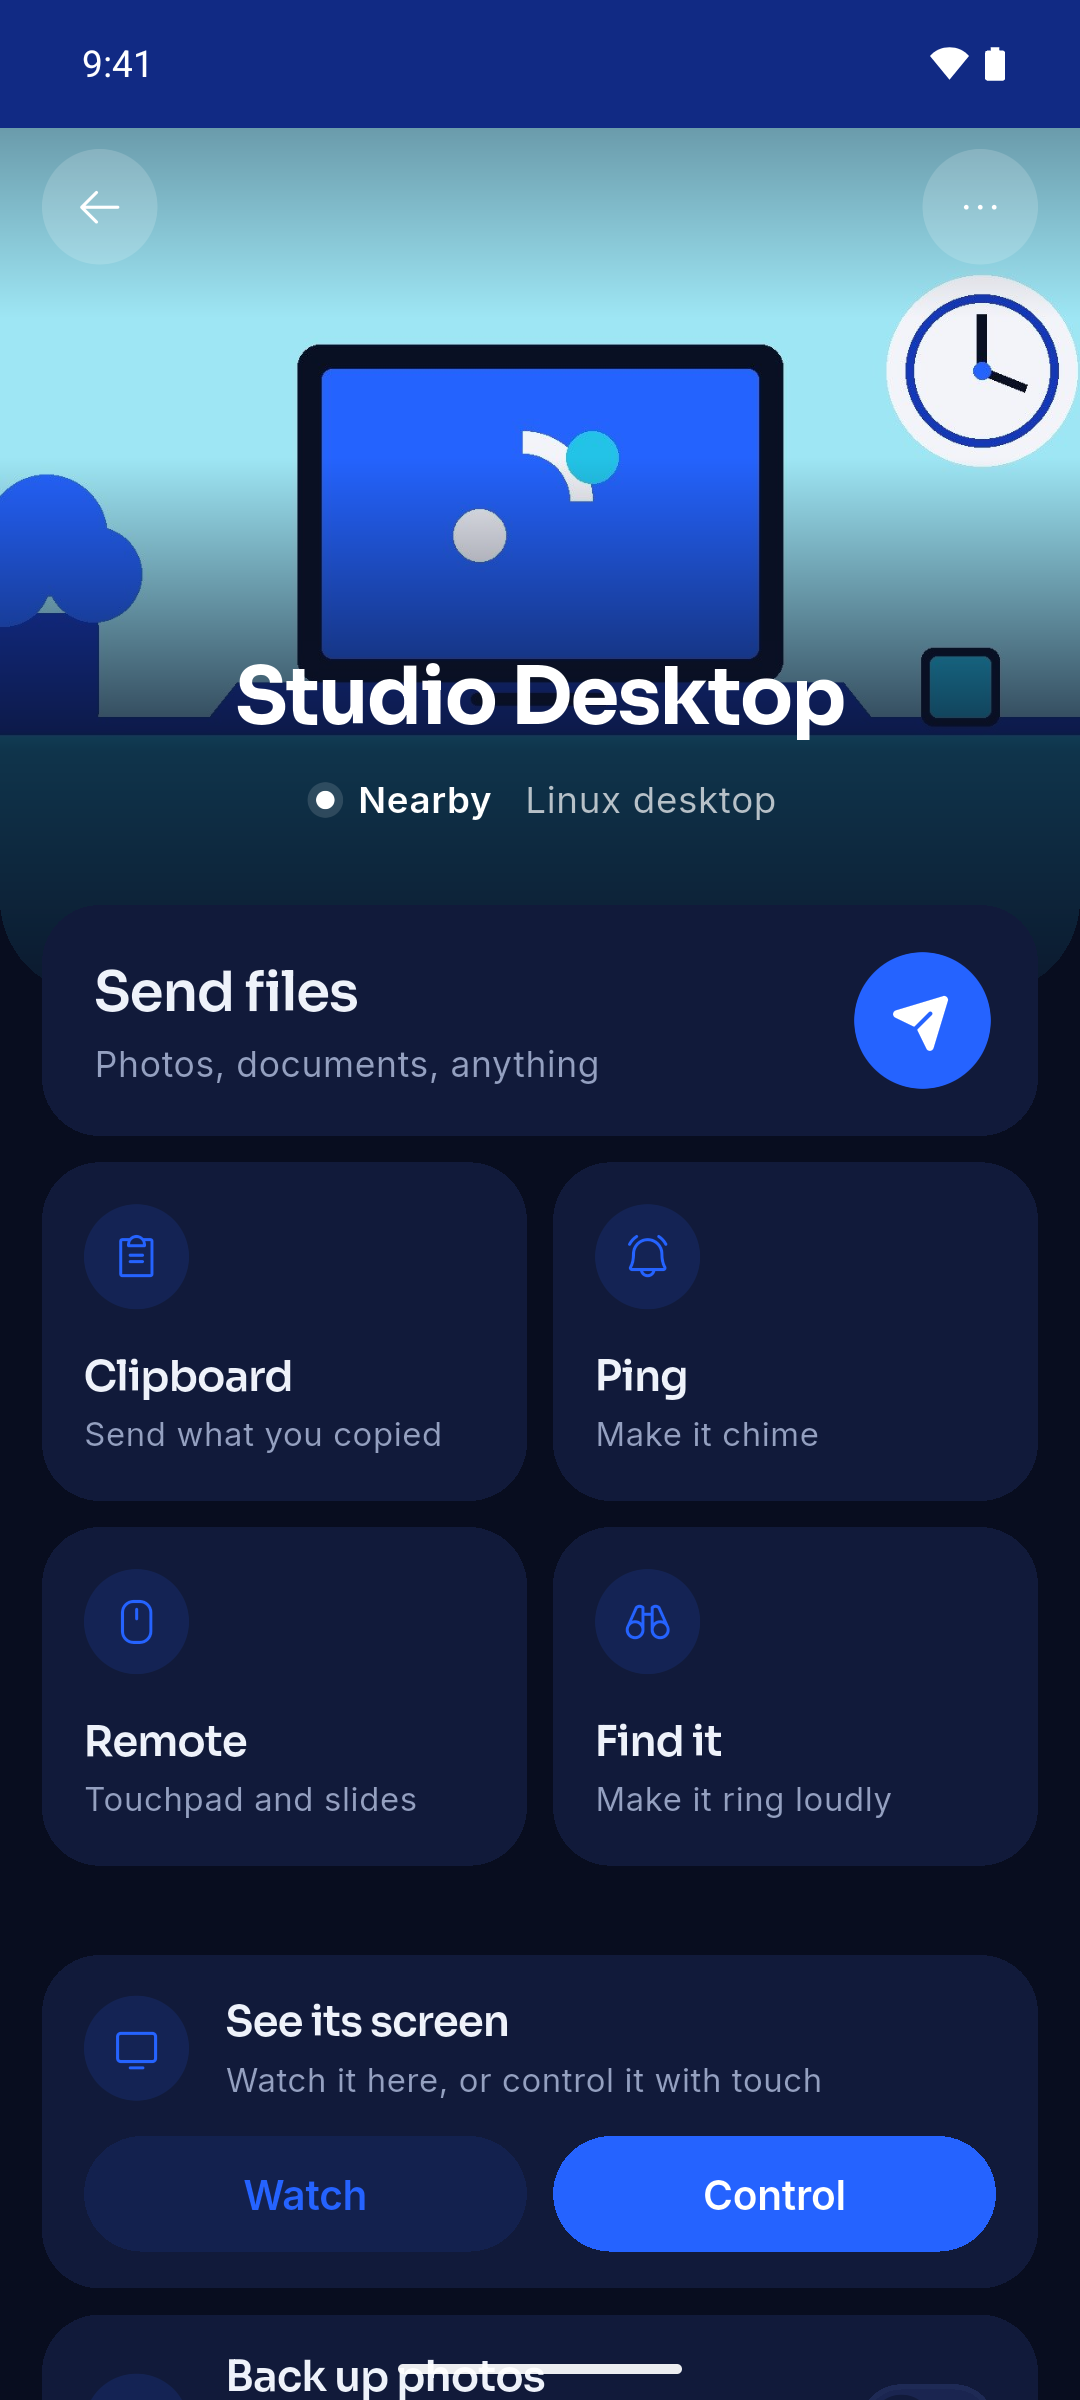
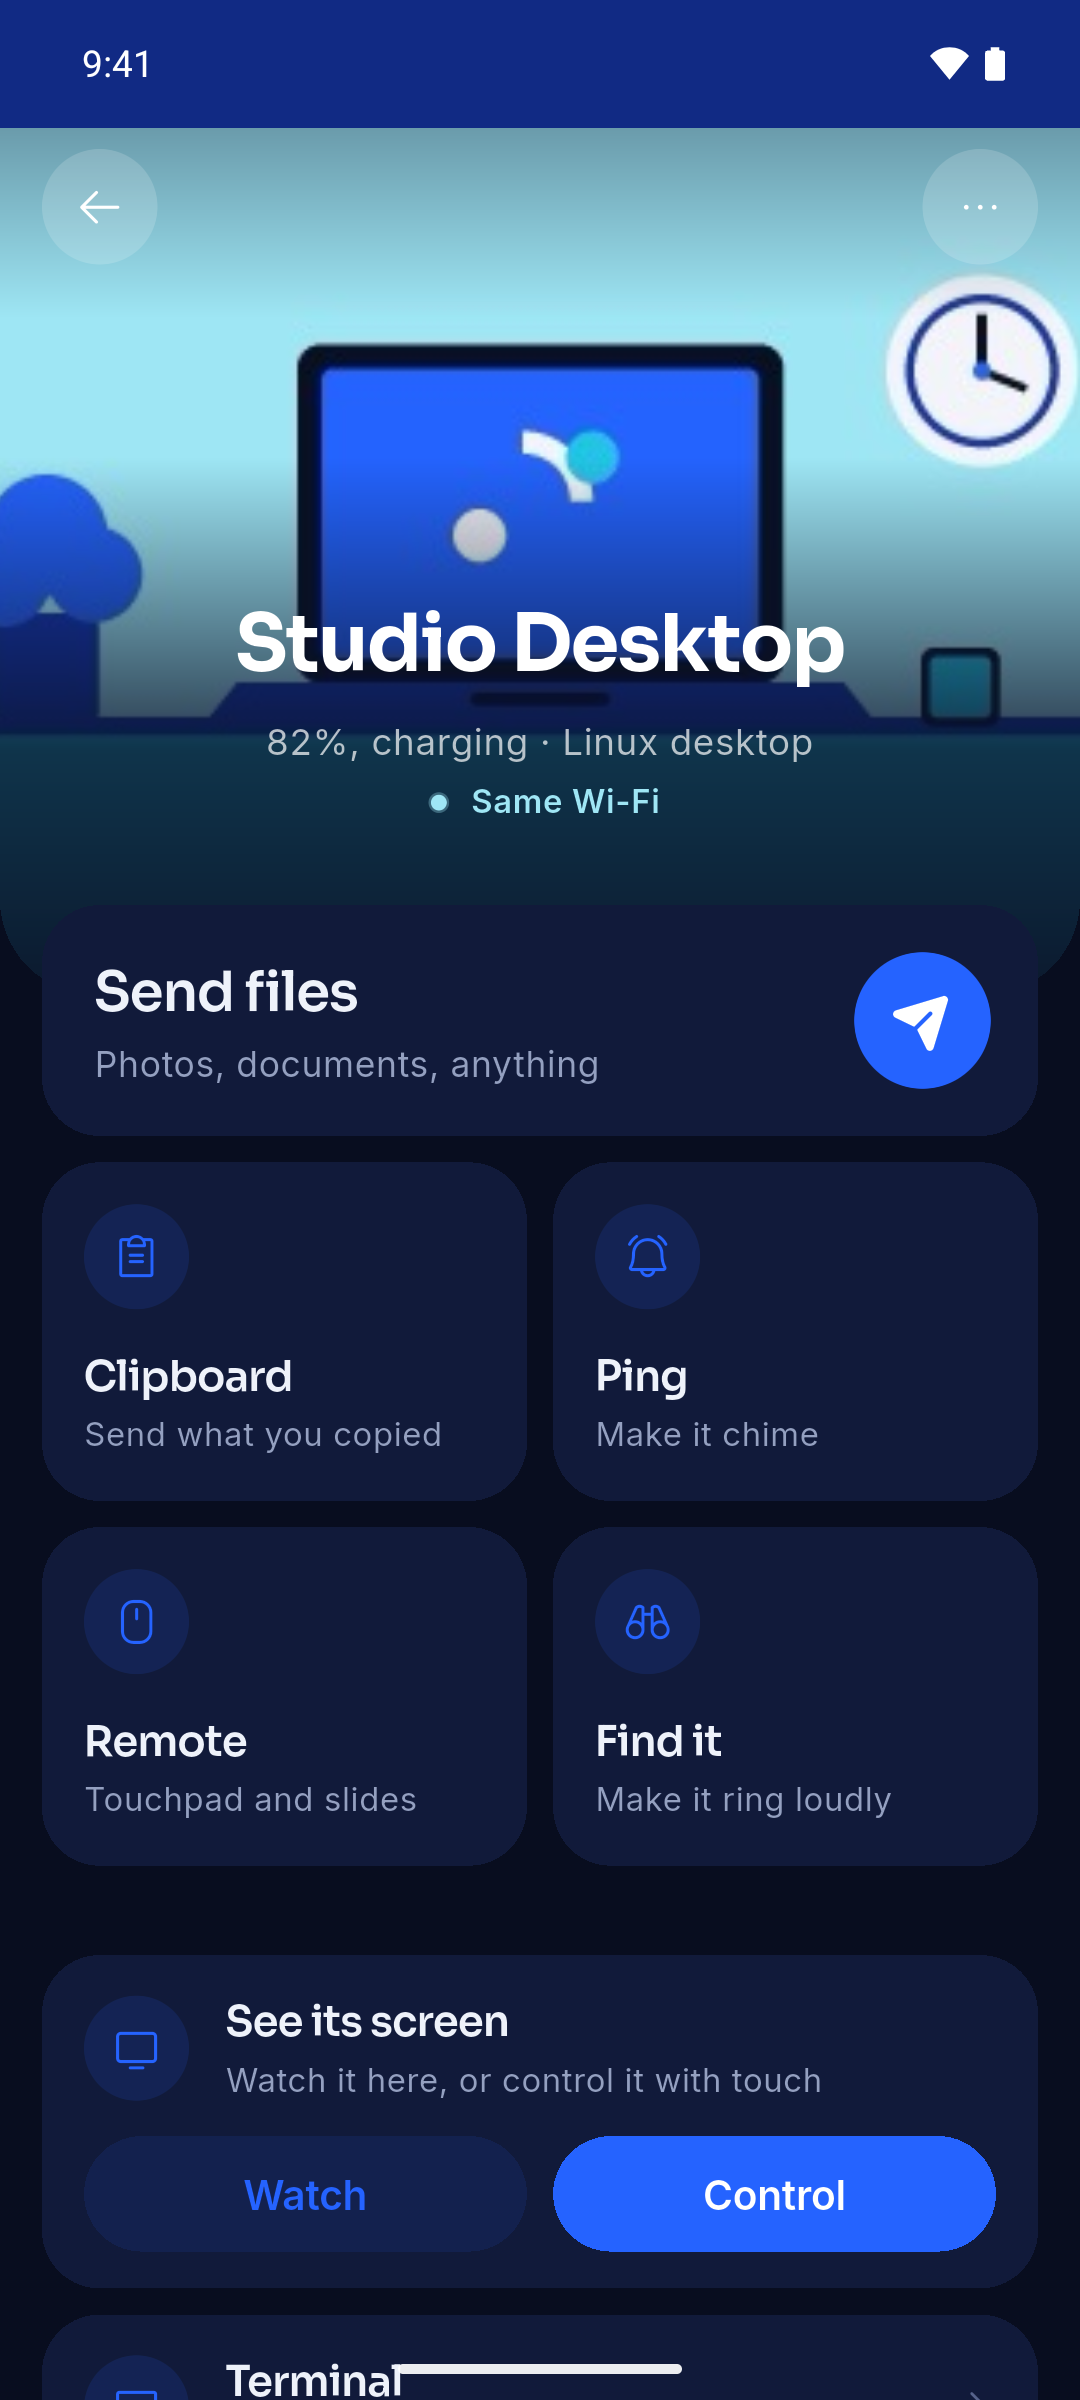
docs(screenshots): retake a complete set for the website
35 screens from a clean 0.2.0 install against a computer on the 0.7 core:
getting started, home, a computer's page, files and links, the phone as
webcam/microphone/remote, watching the computer's screen, terminal,
settings, and dark versions of the main ones.

diff --git a/screenshot/README.md b/screenshot/README.md
@@ -1,30 +1,67 @@
-# Linksy for Android: screenshots
+# Screenshots
 
-For the website and store listings. Taken on a Pixel-size emulator (1080×2400) in the
-app's demo mode (`--dart-define=LINKSY_DEMO=true`, made-up devices), with a clean status
-bar. Version 0.1.9+ (device pictures).
+Linksy for Android 0.2.0, for the website. All taken on 2026-10-22 on a clean install
+(phone named "Pixel 9"), paired with two computers: **Studio Desktop** (a Linux desktop
+on Linksy's 0.7 core, with a picture and its battery) and a **ThinkPad** (not nearby).
+1080 × 2400 PNG (the screen-viewing one is 2400 × 1080, landscape). Light unless the
+name says `-dark`.
 
+## Getting started
 | File | What it shows |
 |---|---|
-| `home.png`, `home-dark.png` | Home: paired devices (one with a picture), a device nearby to pair |
-| `device.png`, `device-dark.png` | A computer’s page with its picture as the banner, fading into a shadow under the name |
-| `device-no-picture.png`, `device-no-picture-dark.png` | A computer's page without a picture: the dark blue grid banner fading into the same shadow |
-| `device-timeline.png` | The same page scrolled: actions, See its screen, photo backup, and the timeline |
-| `incoming-files.png` | "Studio Desktop is sending you 3 files", Accept / Decline |
-| `remote.png` | Remote: the phone as touchpad and keyboard |
-| `remote-slides.png` | Remote: presentation mode (Next / Back, volume keys) |
-| `settings.png` | Settings: this phone, saving to Downloads, background, calls |
-| `terminal-entry.png` | A computer's page with the Terminal card (shown only for computers announcing `terminal`) |
-| `terminal-start.png` | Terminal: start screen, "A shell on Studio Desktop", New terminal |
-| `terminal-wrong-code.png` | The terminal code prompt after a wrong code: "Wrong code, 4 tries left" |
-| `terminal-live.png` | A live terminal with colours, and the key bar above the keyboard |
-| `terminal-tab-title.png` | The tab and header following the shell's window title ("top — ~") |
-| `terminal-detached.png` | Detached: still running on the computer, Reattach |
-| `terminal-close.png` | The Close button in the header and the × on each tab |
-| `terminal-close-confirm.png` | "Close this terminal?" with Keep running / Close |
-| `terminal-real-shell.png` | A real login shell (zsh on a Mac test computer) through the 0.7 core |
-| `terminal-still-running.png` | Start screen listing a terminal still running on the computer, Reattach |
-| `terminal-exit.png` | After typing `exit`: the tab closed, "“Terminal” ended on …" |
-| `device-status.png` | A computer's page: name, its kind, and a small "Same Wi-Fi" under it |
+| `permissions.png` | First launch: notifications and camera, asked plainly |
+| `welcome.png` | "Connect your first device", three steps, Scan QR code |
+| `paired.png` | Just paired: "Paired with Studio Desktop" |
+| `add-device.png` | Add a device: Scan QR code, or Pair by address |
+| `pair-address.png` | Pair by address (when the other device can't be found) |
 
-The device picture is a flat illustration in the brand colors, made for these shots.
+## Home
+| File | What it shows |
+|---|---|
+| `home.png`, `home-dark.png` | Your devices: Studio Desktop (its picture, battery ring, "Same Wi-Fi · 82%") and ThinkPad (not nearby) |
+| `home-sharing.png` | While a computer uses the phone's webcam and microphone: the banners with Stop |
+| `notification.png` | A notification from the computer ("Studio Desktop: The release build is ready") |
+
+## A computer's page
+| File | What it shows |
+|---|---|
+| `device.png`, `device-dark.png` | The computer's picture as the header, "82%, charging · Linux desktop", "Same Wi-Fi"; Send files and the actions |
+| `device-actions.png`, `device-actions-dark.png` | See its screen, Terminal, "This phone as" (webcam, microphone, second display), what's playing on it, photo backup and "Allow everything from away" |
+| `device-activity.png`, `device-activity-dark.png` | Activity with filters (All, Files, Clipboard, Links): files, a link, clipboard text, pings |
+
+## Files, links, notifications
+| File | What it shows |
+|---|---|
+| `incoming-files.png` | "Studio Desktop is sending you a file": Quarterly report.pdf, Accept / Decline |
+| `incoming-photos.png` | The same for three photos |
+| `link-received.png` | "Studio Desktop sent a link": Open, Copy link |
+| `share-link.png` | Share → Linksy from another app: open the link on a computer |
+
+## The phone for the computer
+| File | What it shows |
+|---|---|
+| `watch-screen.png` | The computer's screen on the phone, full screen in landscape (watch or control it) |
+| `webcam-request.png` | "Studio Desktop wants to use your camera" |
+| `webcam.png` | Webcam controls: live preview, zoom, torch, landscape/portrait, light |
+| `webcam-stream.png` | Webcam › Stream: orientation, frame rate, resolution, quality |
+| `remote.png` | Remote: the phone as touchpad (left and right click, keyboard) |
+| `remote-slides.png` | Remote › Slides: Next and Back for presentations |
+| `ring.png` | "Here I am!": the computer is ringing the phone to find it |
+
+## Terminal (with Linksy 0.7 on the computer)
+| File | What it shows |
+|---|---|
+| `terminal-start.png` | "A shell on Studio Desktop", New terminal |
+| `terminal-code.png` | The terminal code, asked every time |
+| `terminal-wrong-code.png` | "Wrong code, 4 tries left" |
+| `terminal-live.png` | A real shell on the computer: `git log` in colour, the key bar above the keyboard |
+| `terminal-detached.png` | Detached: still running on the computer, Reattach |
+
+## Settings
+| File | What it shows |
+|---|---|
+| `settings.png`, `settings-dark.png` | This phone, receiving, connection (stay connected, background, away from home) |
+| `settings-computers.png` | With your computers: calls, files, picture of this phone, locate, photo folder |
+| `settings-more.png` | News from Linksy, permissions, and the version |
+
+Not included: the QR scanner (the test phone's camera shows a test pattern).
